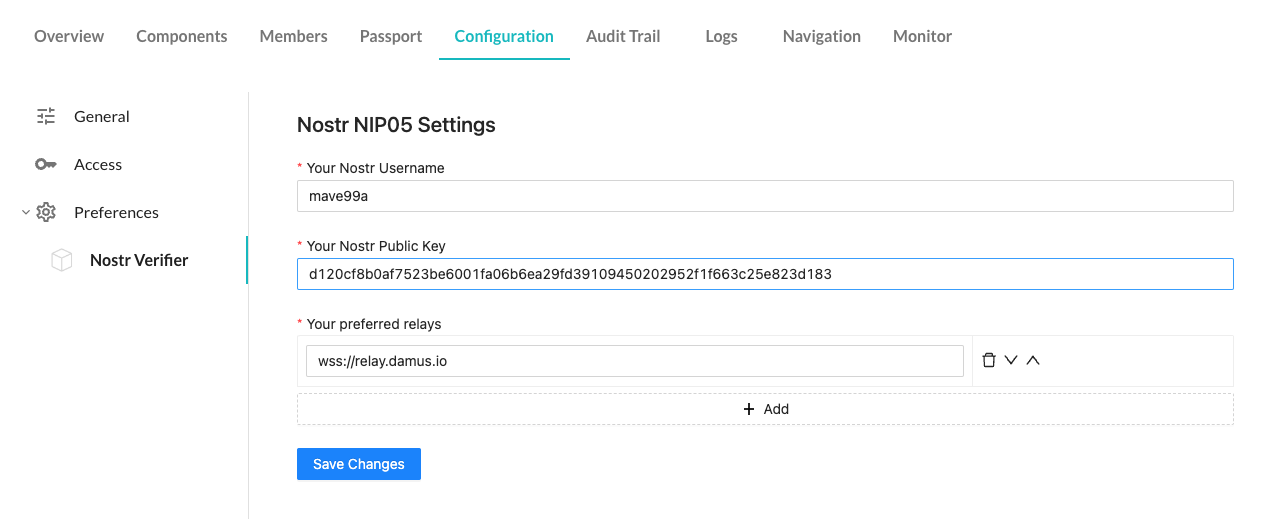
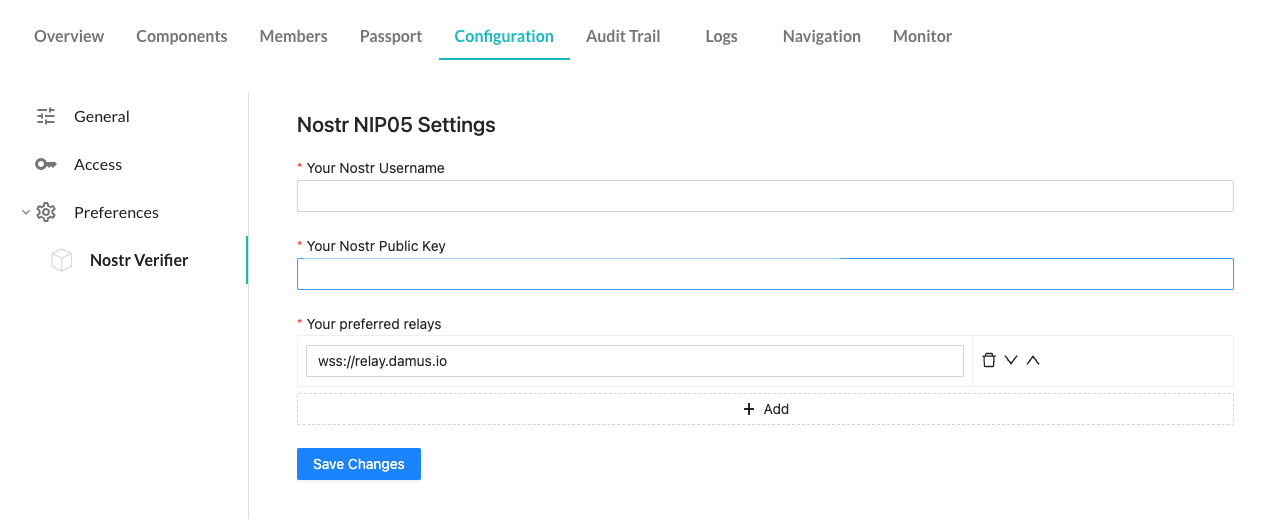
feat: return same response on home

Changed region(s): [[0.2468, 0.4933, 0.6479, 0.5549], [0.2468, 0.3699, 0.3085, 0.4008]]

diff --git a/api/index.js b/api/index.js
@@ -8,62 +8,59 @@ const app = express();
 
 const port = process.env.BLOCKLET_PORT || process.env.PORT || 3030;
 
+const getResponse = () => {
+  const hasPubkey = !!env.preferences.pubkey;
+  if (hasPubkey) {
+    let { pubkey } = env.preferences;
+    const needFormatToHex = pubkey.startsWith(npubPrefix);
+    if (needFormatToHex) {
+      pubkey = converter('npub').toHex(pubkey);
+    }
+
+    // try to remove 0x flag and to lower case
+    pubkey = pubkey.replace('0x', '').toLowerCase();
+
+    return {
+      names: {
+        [env.preferences.username]: pubkey,
+      },
+      relays: {
+        [pubkey]: (env.preferences.relays || []).map((x) => x.relay).filter(Boolean),
+      },
+    };
+  }
+
+  return { names: {}, relays: {} };
+};
+
 app.get('/', (req, res) => {
-  res.json(env.preferences);
+  try {
+    res.json(getResponse());
+  } catch (error) {
+    logger.error('gen response failed: ', error);
+    res.json({ error: 'gen response failed' });
+  }
 });
 
 app.get('/.well-known/nostr.json', (req, res) => {
   const { name = '' } = req.query;
   if (name) {
     if (env.preferences.username !== name) {
-      res.json({
-        names: {
-          [name]: '',
-        },
-        relays: {
-          [name]: [],
-        },
-      });
+      res.json({ names: {}, relays: {} });
       return;
     }
 
-    const hasPubkey = !!env.preferences.pubkey;
-
-    if (hasPubkey) {
-      let { pubkey } = env.preferences;
-      const needFormatToHex = pubkey.startsWith(npubPrefix);
-      if (needFormatToHex) {
-        try {
-          // format npub to hex
-          pubkey = converter('npub').toHex(pubkey);
-        } catch (error) {
-          logger.error('format npub to hex failed: ', error);
-          res.send('format npub to hex failed');
-          return;
-        }
-      }
-
-      // try to remove 0x flag and to lower case
-      pubkey = pubkey.replace('0x', '').toLowerCase();
-
-      res.json({
-        names: {
-          [name]: pubkey,
-        },
-        relays: hasPubkey
-          ? {
-              [pubkey]: (env.preferences.relays || []).map((x) => x.relay).filter(Boolean),
-            }
-          : {},
-      });
-
-      return;
+    try {
+      res.json(getResponse());
+    } catch (error) {
+      logger.error('gen response failed: ', error);
+      res.json({ error: 'gen response failed' });
     }
+  } else {
+    res.json({ names: {}, relays: {} });
   }
-
-  res.json({ names: {}, relays: {} });
 });
 
 app.listen(port, () => {
-  console.log(`Blocklet app listening on port ${port}`);
+  console.log(`ready on port ${port}`);
 });
